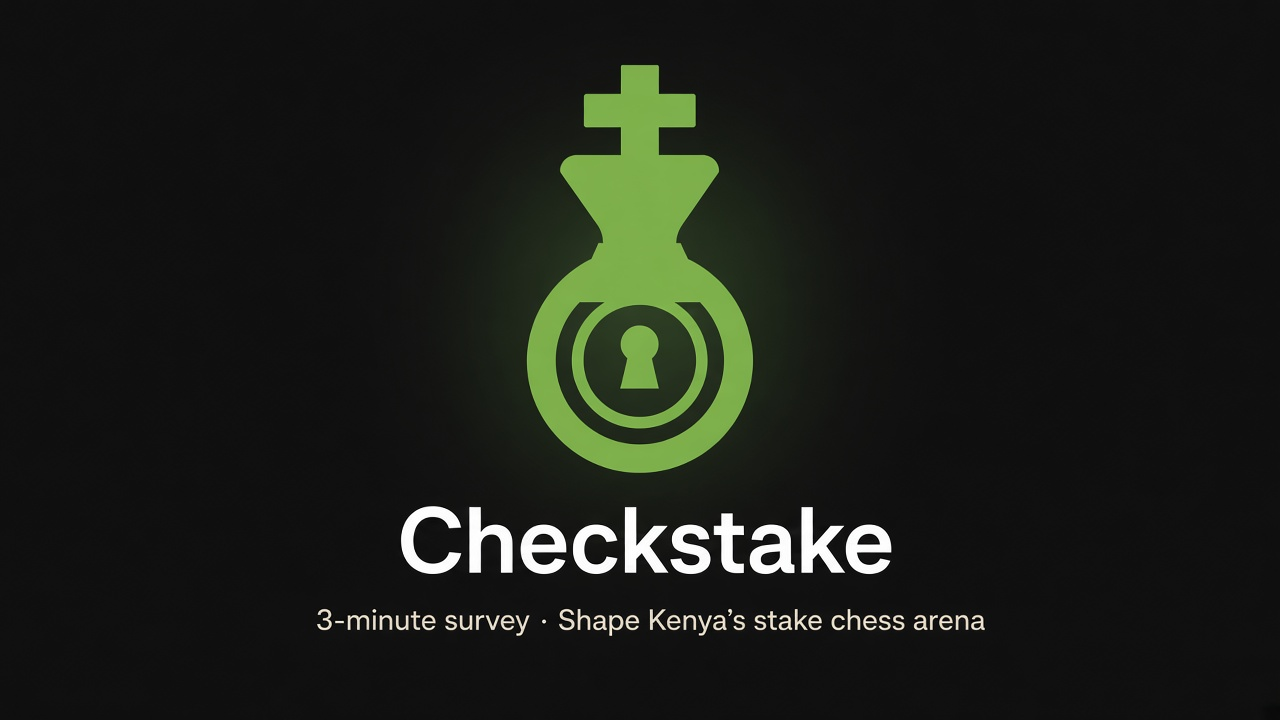
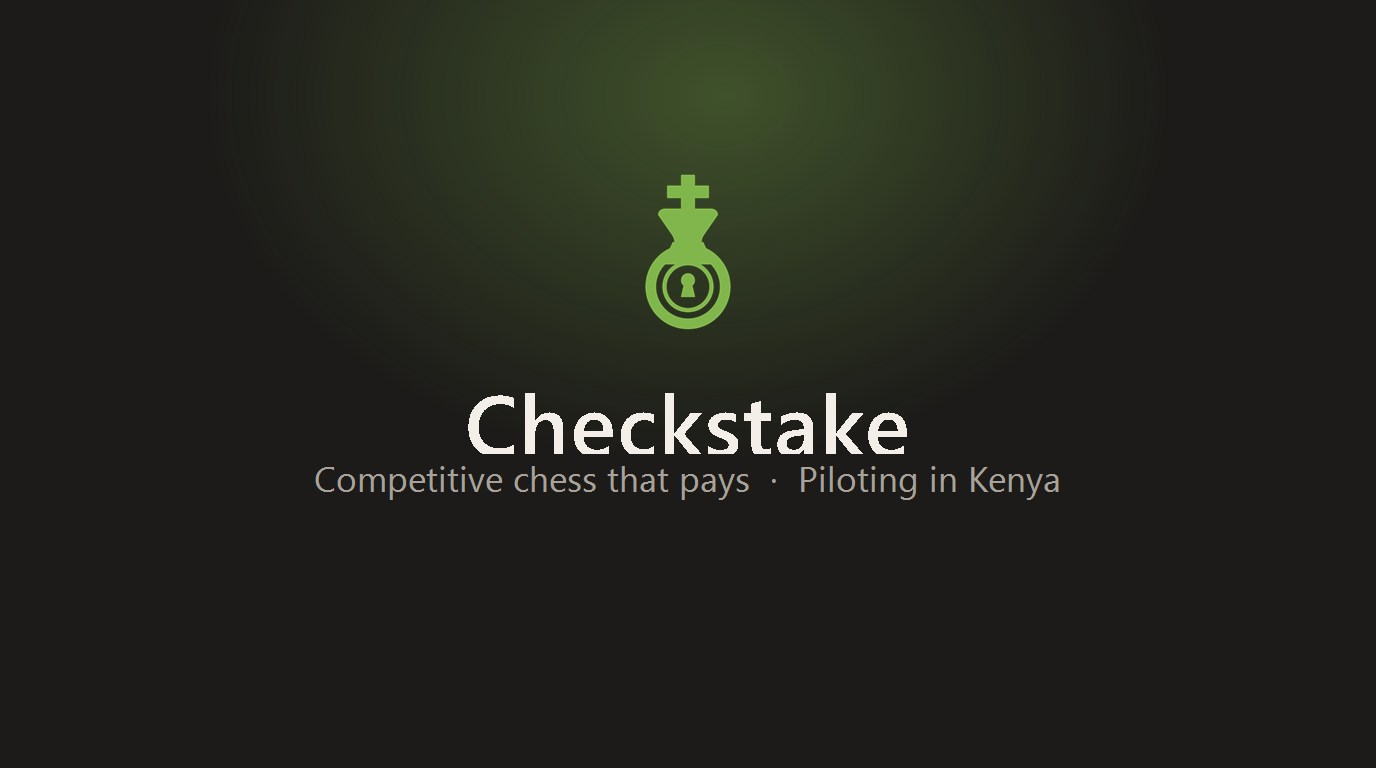
Reposition Checkstake as earn-through-chess pilot in Kenya.

Changed region(s): [[0.2188, 0.0, 0.7812, 0.6722], [0.3125, 0.7028, 0.7188, 0.7944], [0.25, 0.825, 0.7812, 0.8861]]

diff --git a/index.html b/index.html
@@ -8,19 +8,19 @@
     />
     <meta name="theme-color" content="#1c1b19" />
     <meta name="color-scheme" content="dark" />
-    <title>Checkstake — Shape what we build next</title>
+    <title>Checkstake — Chess that pays</title>
     <meta
       name="description"
-      content="3-minute survey. Help build Kenya’s stake chess arena — bots, puzzles, and M-Pesa. No spam."
+      content="Checkstake is a competitive chess platform where skill turns into earnings. Now piloting in Kenya."
     />
     <meta name="robots" content="noindex,nofollow" />
 
     <meta property="og:type" content="website" />
     <meta property="og:site_name" content="Checkstake" />
-    <meta property="og:title" content="Checkstake — Play, Compete & Earn" />
+    <meta property="og:title" content="Checkstake — Chess that pays" />
     <meta
       property="og:description"
-      content="3-minute survey. Help build Kenya’s stake chess arena — bots, puzzles, and M-Pesa. No spam."
+      content="A competitive chess platform where skill turns into earnings. Piloting in Kenya."
     />
     <meta property="og:url" content="https://matrixke.github.io/checkstake-invite/" />
     <meta property="og:image" content="https://matrixke.github.io/checkstake-invite/og-survey.jpg" />
@@ -30,10 +30,10 @@
     <meta property="og:image:height" content="768" />
 
     <meta name="twitter:card" content="summary_large_image" />
-    <meta name="twitter:title" content="Checkstake — Play, Compete & Earn" />
+    <meta name="twitter:title" content="Checkstake — Chess that pays" />
     <meta
       name="twitter:description"
-      content="3-minute survey. Help build Kenya’s stake chess arena. No spam."
+      content="A competitive chess platform where skill turns into earnings. Piloting in Kenya."
     />
     <meta name="twitter:image" content="https://matrixke.github.io/checkstake-invite/og-survey.jpg" />
 
@@ -212,17 +212,17 @@
           />
           <div>
             <h1>Checkstake</h1>
-            <p class="tag">Play · Compete · Earn</p>
+            <p class="tag">Competitive chess · Real earnings</p>
           </div>
         </div>
         <p class="copy">
-          3 minutes. Honest answers shape Kenya’s stake chess arena — bots, puzzles, and M-Pesa. No
-          spam. Ever.
+          Checkstake is a chess platform built so players can compete and earn. We are currently
+          piloting in Kenya — join early and tell us how you want to play.
         </p>
         <a class="cta" href="https://forms.gle/FuNVjKKuPASwY3Qc7" rel="noopener">
-          Fill the survey <span aria-hidden="true">→</span>
+          Join the Kenya pilot <span aria-hidden="true">→</span>
         </a>
-        <p class="note">Opens Google Forms · about 3 minutes</p>
+        <p class="note">Short intake form · about 3 minutes</p>
       </div>
     </main>
   </body>
